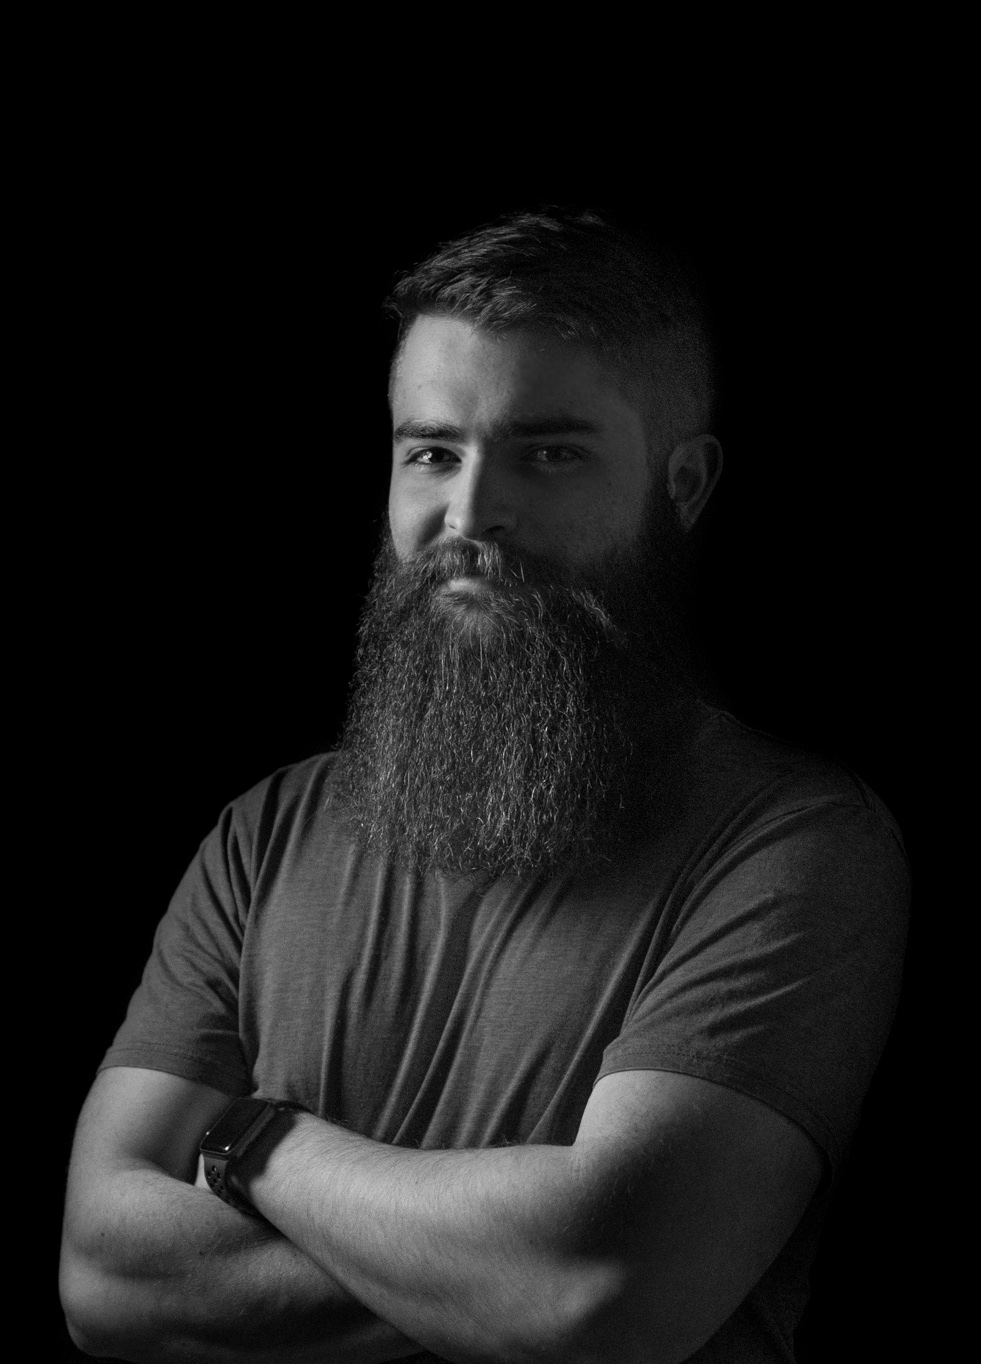
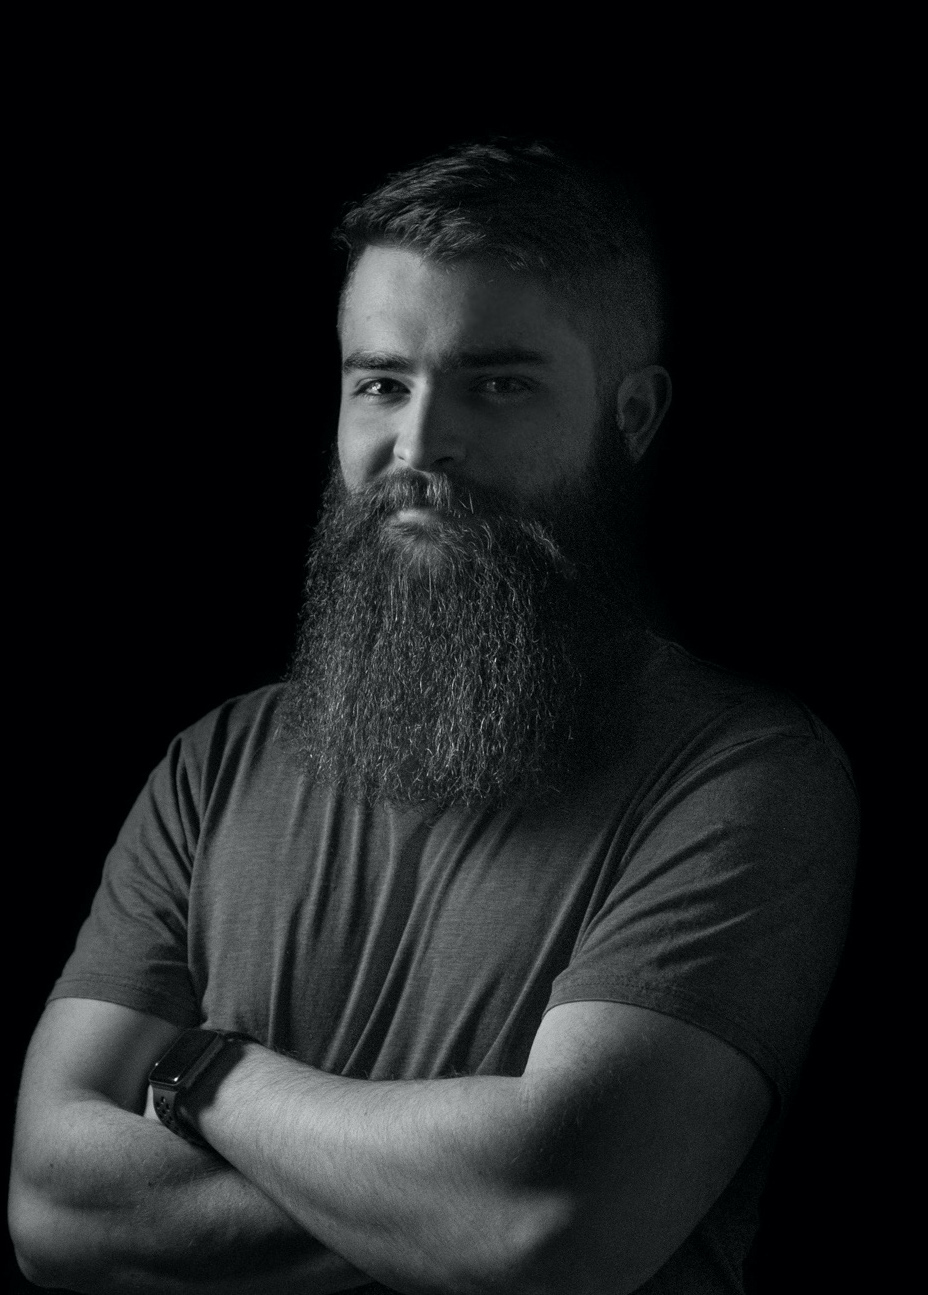
cleaned up scss files

Changed region(s): [[0.0, 0.0927, 0.8438, 1.0]]

diff --git a/src/styling/_skillsExperience.scss b/src/styling/_skillsExperience.scss
@@ -1,17 +1,14 @@
 .skillsExperience{
     padding-left: 100px;
     margin: 80px 0px;
-
     .main-box{
         display: flex;
         flex-direction: column;
         align-items: flex-start;
-        
         h2{
             margin-left: 30px;
         }
         @media(max-width: 550px){
-    
             h2{
                 width: 100%;
                 text-justify: center;
@@ -20,10 +17,8 @@
             .fakeCode{
                 margin-left: 5vw;
             }
-
         }
     }
-
     .master-content-box{
         display: flex;
         align-items: center;
@@ -38,7 +33,6 @@
             justify-content: space-between;
             position:relative;
             .single-project-box{
-                // background-color: gray;
                 width: 100%;
                 display: flex;
                 justify-content: space-between;
@@ -64,17 +58,12 @@
                     }
                 }
             }
-
-
             .line-box{
                 .separating-line{
                     width: 80%;
                     border: 1px solid $red;
                 }
             }
-
-
-
         }
         .images-box{
             background-color: $darkGray;
@@ -82,7 +71,6 @@
             width: 25%;
             height: 100%;
             display: flex;
-            // flex-direction: column;
             align-items: space-around;
             justify-content: space-around;
             flex-wrap: wrap;
@@ -93,14 +81,12 @@
                 min-width: 145px;
                 height: 150px;
                 p{
-
                 }
                 img{
                     height: 120px;
                 }
             }
         }
-
         @media(max-width: 1500px){
             .images-box{
                 padding: 10px;
@@ -215,16 +201,6 @@
             height: 2500px;
             .projects-box{
                 width: 90%;
-                .single-project-box{
-                    img{
-                        
-                    }
-                    .description-box{
-                        h3{
-                            
-                        }
-                    }
-                }
             }
             .images-box{
                 width: 100%;
@@ -232,7 +208,6 @@
                 flex-direction: row;
                 height: auto;
                 border-radius: 0px;
-
                 .logo-box{
                     min-width: none;
                     height: auto;
@@ -244,7 +219,6 @@
                 }
             }
         }
-
     }
     @media(max-width:1000px){
         padding-left: 75px;

diff --git a/src/styling/_landing.scss b/src/styling/_landing.scss
@@ -1,7 +1,7 @@
 .landing{
     position: relative;
     background-color: black;
-    background-image: url(../images/profile-pic-crop3.jpg);
+    background-image: url(../images/profile-pic-crop.jpg);
     background-position: right;
     background-size: auto 100%;
     background-repeat: no-repeat;
@@ -11,17 +11,13 @@
     align-items: center;
     height: 100vh;
     padding: 90px 100px 0px;
-    // background-color: gray;
-
     .master-container{
-        // z-index: 1;
         width: 100%;
         max-width: 1400px;
         height: 75%;
         display: flex;
         justify-content: space-between;
         align-items: center;
-        
         .main-box{
             display: flex;
             flex-direction: column;
@@ -44,17 +40,14 @@
                 }
             }
         }
-
         @media (max-width: 1200px){
             max-width: 900px;
             .main-box{
                 .intro{
                     font-size: 17px;
                 }
-
             }
         }
-
         @media (max-width: 850px){
             flex-direction: column;
             justify-content: space-around;
@@ -62,10 +55,7 @@
             height: auto;
             width: 100%;
             background-color: rgba(0, 0, 0, 0.712);
-            // backdrop-filter: blur(100px);
-            
             .main-box{
-                // background-color: red;
                 align-items: center;
                 justify-content: center;
                 .big-letter-box{
@@ -78,7 +68,6 @@
                         margin-right: 10px;
                     }
                 }
-                
                 .h2{
                     display: none;
                 }
@@ -96,7 +85,6 @@
             }
         }
     }
-
     .pull-down{
         z-index: 1;
         width: 100%;
@@ -115,7 +103,6 @@
         img{
             height: 3vh;
             position: relative;
-            // opacity: 0;
         }
         @media (max-width: 850px) {
             width: 100%;
@@ -130,8 +117,6 @@
             max-height: 60px;
         }
     }
-
-
     @media (max-width: 850px){
         padding: 0px ;
         justify-content: flex-end;
@@ -140,10 +125,5 @@
         .fakeCode{
             display: none;
         }
-
-    }
-    
-    
-    
-    
+    }    
 }

diff --git a/src/styling/_contactBottom.scss b/src/styling/_contactBottom.scss
@@ -1,5 +1,4 @@
 .contactBottom{
-    // background-color: gray;
     height: 65vh;
     display: none;
     flex-direction: column;
@@ -8,12 +7,10 @@
     padding: 10px 5vw;
     position: relative;
     bottom: 7vh;
-
     .main-box{
         display: flex;
         flex-direction: column;
         align-items: flex-start;
-        
         h2{
             margin-left: 30px;
         }
@@ -48,9 +45,7 @@
                     height: 60px;
                     width: auto;
                     border-radius: 15px;
-                    // border: 3px solid $red;
                     box-shadow:  -10px 10px 25px -3px $red;
-                    
                 }
                 .round{
                     border-radius: 50%;
@@ -63,7 +58,6 @@
                 
             }
         }
-            
     }
     @media(max-width: 550px){
         display: flex;
@@ -74,5 +68,4 @@
         justify-content: space-between;
         padding: 2vh 0vh;
     }
-  
 } 

diff --git a/src/styling/_about.scss b/src/styling/_about.scss
@@ -5,20 +5,17 @@
     padding: 0px 100px;
     padding-top: 5vh;
     margin: 0px 0px;
-    // background-color: red;
     
     .main-box{
         display: flex;
         flex-direction: column;
         align-items: flex-start;
-        
         h2{
             margin-left: 30px;
         }
     }
     
     .content-box{
-        // background-color: red;
         display: flex;
         flex-direction: column;
         align-items: flex-start;
@@ -38,7 +35,5 @@
         padding: 0px 5vw;
         padding-top: 5vh;
         position: relative;
-        // bottom: 10vh
     }
-    
 }

diff --git a/src/styling/App.scss b/src/styling/App.scss
@@ -13,14 +13,8 @@ $green: #73ff9d;
   background-color: $primaryBackground;
   color: white;
 
-  h1{
-    
-  }
   h2{
     color: $blue;
-  }
-  h3{
-    
   }
   p{
     color: $lightGray;
@@ -88,16 +82,6 @@ $green: #73ff9d;
       font-size: 17px
     }
   }
-  // @media (max-width: 550px){
-  //   h1{
-  //     // font-size: 35px;
-  //   }
-  //   h2{
-  //   }
-  //   p{
-  //     font-size: 17px
-  //   }
-  // }
   @media (max-width: 450px){
     h1{
       font-size: 33px;
@@ -109,7 +93,6 @@ $green: #73ff9d;
       font-size: 17px
     }
   }
-
 }
 
 @import './about';

diff --git a/src/styling/_header.scss b/src/styling/_header.scss
@@ -19,14 +19,12 @@
     }
     
     .item-box{
-        // background-color: gray;
         width: 550px;
         margin-right:7vw;
         display: flex;
         justify-content: space-between;
         align-items: center;
         .link-box{
-            // width: 33%;
             height: 30px;
             display: flex;
             align-items: center;
@@ -105,7 +103,6 @@
                     p{
                         font-size: 4vh;
                     }
-                    // display: none;
                 }
             }
         }

diff --git a/src/styling/index.scss b/src/styling/index.scss
@@ -1,5 +1,3 @@
-// @import url('https://fonts.googleapis.com/css2?family=Space+Mono:wght@400;700&display=swap');
-
 @import url('https://fonts.googleapis.com/css2?family=Poppins&display=swap');
 
 @import url('https://fonts.googleapis.com/css2?family=Pangolin&display=swap');

diff --git a/src/styling/_contactBar.scss b/src/styling/_contactBar.scss
@@ -14,8 +14,6 @@
         backdrop-filter: blur(9px);
         height: 350px;
         width: 65px;
-        // position: fixed;
-        // top: 30vh;
         display: flex;
         flex-direction: column;
         justify-content: space-around;
